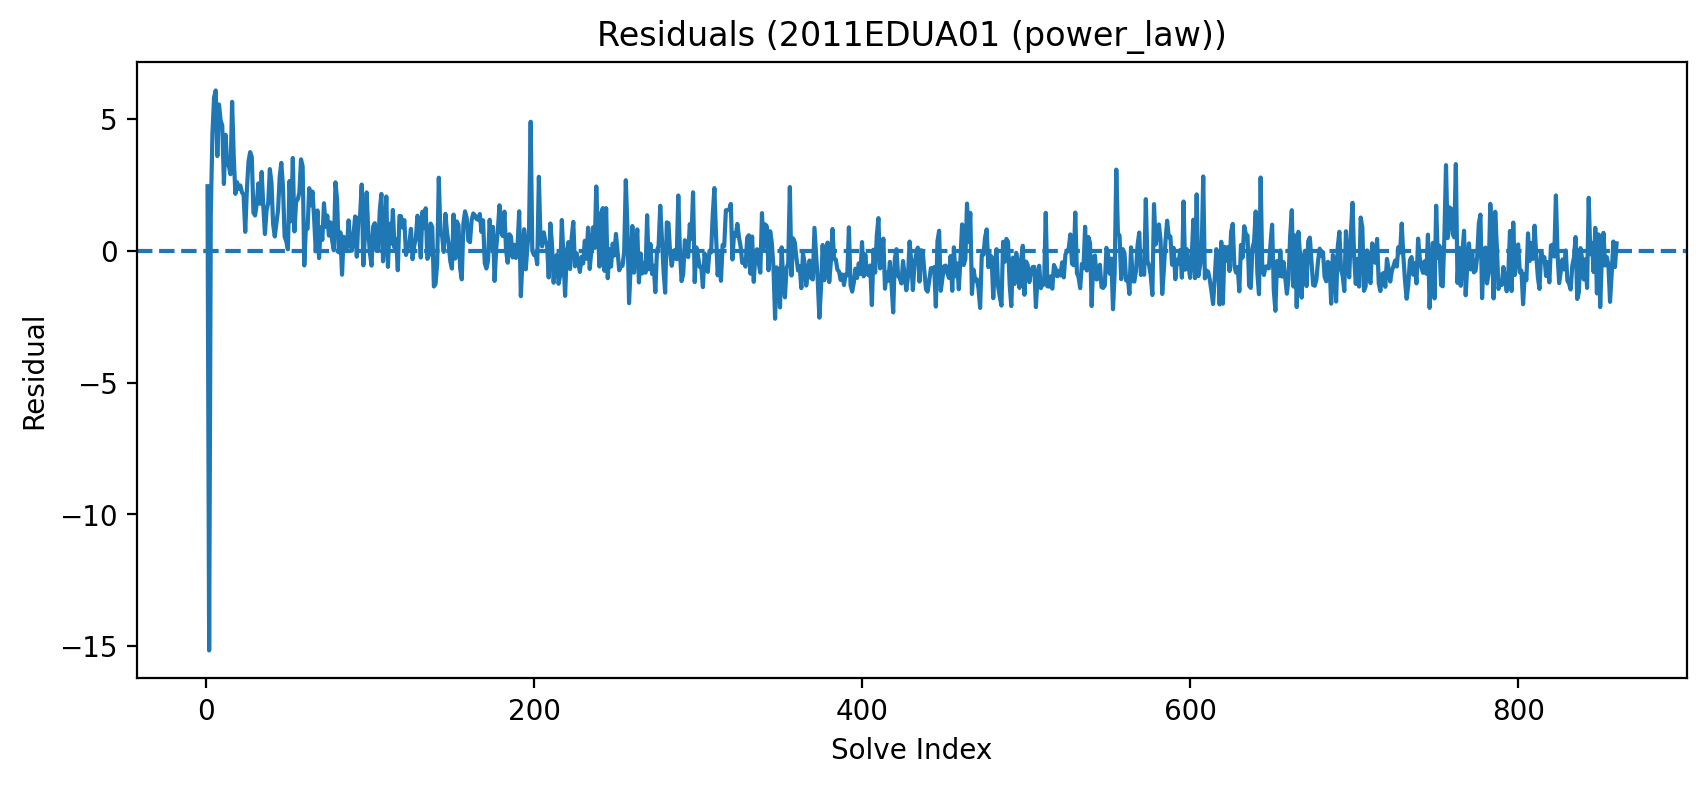
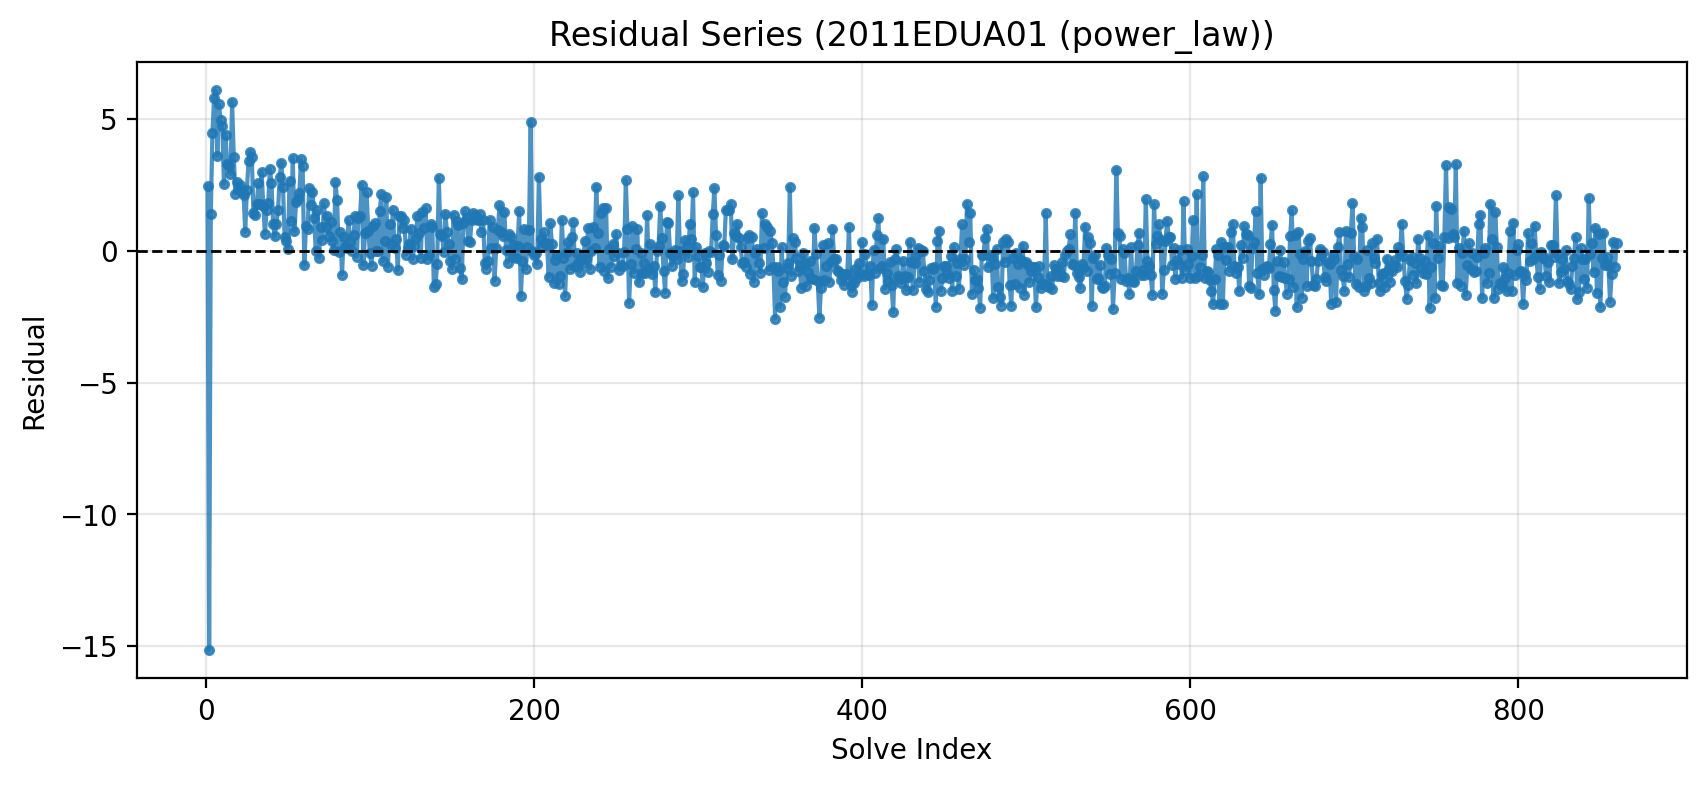
functionalities for Hurst exponent / DFA

Changed region(s): [[0.0931, 0.1223, 0.9936, 0.5503], [0.3105, 0.0306, 0.7452, 0.0611]]

diff --git a/src/dfa_analysis.py b/src/dfa_analysis.py
@@ -1,0 +1,151 @@
+"""Reusable detrended fluctuation analysis helpers.
+
+These functions support the residual analysis notebook by providing a compact
+Hurst-exponent estimate and a human-readable noise classification.
+"""
+
+from __future__ import annotations
+
+import math
+
+import numpy as np
+
+
+def compute_residuals(y_true, y_pred):
+	"""Return residuals as ``y_true - y_pred``.
+
+	This mirrors the residual convention used in :mod:`learning_models`.
+	"""
+
+	return np.asarray(y_true, dtype=float) - np.asarray(y_pred, dtype=float)
+
+
+def _window_fluctuation(profile, scale):
+	"""Compute DFA fluctuation for one window size."""
+
+	window_count = len(profile) // scale
+	if window_count == 0:
+		return np.nan
+
+	fluctuations = []
+	for index in range(window_count):
+		segment = profile[index * scale : (index + 1) * scale]
+		if len(segment) < 2:
+			continue
+		x_values = np.arange(len(segment), dtype=float)
+		coefficients = np.polyfit(x_values, segment, deg=1)
+		trend = np.polyval(coefficients, x_values)
+		residuals = segment - trend
+		fluctuations.append(float(np.mean(residuals**2)))
+
+	if not fluctuations:
+		return np.nan
+
+	return float(math.sqrt(np.mean(fluctuations)))
+
+
+def calculate_hurst_exponent(signal, min_scale=4, n_scales=20):
+	"""Estimate DFA scaling properties and the Hurst exponent.
+	
+	Parameters
+	----------
+	signal : array-like
+		Residual series or any one-dimensional signal.
+	min_scale : int, default 4
+		Smallest DFA window size to consider.
+	n_scales : int, default 20
+		Number of candidate scales sampled on a log scale.
+	"""
+
+	signal = np.asarray(signal, dtype=float).ravel()
+	signal = signal[np.isfinite(signal)]
+	if signal.size < min_scale * 2:
+		raise ValueError("signal must contain enough finite values for DFA")
+
+	# Step 1: mean center the signal.
+	signal = signal - np.mean(signal)
+
+	# Step 2: build the cumulative profile.
+	profile = np.cumsum(signal)
+
+	max_scale = signal.size // 4
+	if max_scale < min_scale:
+		raise ValueError("signal is too short to estimate a Hurst exponent")
+
+	# Step 3: choose window sizes on a logarithmic grid.
+	scales = np.unique(
+		np.logspace(np.log10(min_scale), np.log10(max_scale), n_scales).astype(int)
+	)
+	scales = scales[scales >= min_scale]
+
+	fluctuations = []
+	valid_scales = []
+	for scale in scales:
+		fluctuation = _window_fluctuation(profile, int(scale))
+		if np.isfinite(fluctuation) and fluctuation > 0:
+			valid_scales.append(int(scale))
+			fluctuations.append(float(fluctuation))
+
+	if len(valid_scales) < 2:
+		raise ValueError("not enough valid DFA scales to estimate a Hurst exponent")
+
+	valid_scales = np.asarray(valid_scales, dtype=float)
+	fluctuations = np.asarray(fluctuations, dtype=float)
+
+	# Step 5: fit the line in log-log space; the slope is the Hurst exponent.
+	log_scales = np.log(valid_scales)
+	log_fluctuations = np.log(fluctuations)
+	slope, intercept = np.polyfit(log_scales, log_fluctuations, deg=1)
+	predicted = intercept + slope * log_scales
+	ss_res = np.sum((log_fluctuations - predicted) ** 2)
+	ss_tot = np.sum((log_fluctuations - np.mean(log_fluctuations)) ** 2)
+	if ss_tot == 0:
+		dfa_r2 = float("nan")
+	else:
+		dfa_r2 = float(1 - ss_res / ss_tot)
+
+	return {
+		"hurst": float(slope),
+		"intercept": float(intercept),
+		"dfa_r2": dfa_r2,
+		"scales": valid_scales,
+		"fluctuations": fluctuations,
+	}
+
+
+def classify_noise(h):
+	"""Classify a Hurst exponent into a simple noise regime."""
+
+	if h is None or not np.isfinite(h):
+		return "unknown"
+	if h < 0.45:
+		return "anti-persistent"
+	if h <= 0.55:
+		return "uncorrelated"
+	return "persistent"
+
+
+def dfa_summary(signal):
+	"""Return a compact DFA summary for report writing."""
+
+	try:
+		result = calculate_hurst_exponent(signal)
+	except ValueError:
+		return {
+			"hurst": float("nan"),
+			"dfa_r2": float("nan"),
+			"noise_type": "unknown",
+		}
+	return {
+		"hurst": result["hurst"],
+		"dfa_r2": result["dfa_r2"],
+		"noise_type": classify_noise(result["hurst"]),
+	}
+
+
+__all__ = [
+	"compute_residuals",
+	"calculate_hurst_exponent",
+	"classify_noise",
+	"dfa_summary",
+]

diff --git a/src/visualization.py b/src/visualization.py
@@ -1,7 +1,5 @@
-# plot_learning_curve()
-# plot_model_fit()
-# plot_residuals()
 import matplotlib.pyplot as plt
+import numpy as np
 
 
 def plot_learning_curve(x, y, player_id=None):
@@ -26,6 +24,8 @@ def plot_learning_curve(x, y, player_id=None):
         if player_id
         else "Learning Trajectory"
     )
+
+    ax.grid(True, alpha=0.3)
 
     return fig, ax
 
@@ -77,33 +77,60 @@ def plot_model_fits(
 
     ax.legend()
 
+    ax.grid(True, alpha=0.3)
+
     return fig, ax
 
-def plot_residuals(
-    x,
-    residuals,
-    player_id=None
-):
-    """
-    Plot residual series.
-    """
+def plot_dfa_scaling(scales, fluctuations, slope=None, intercept=None, player_id=None):
+    """Plot DFA scaling on log-log axes with an optional fitted line."""
+
+    scales = np.asarray(scales, dtype=float)
+    fluctuations = np.asarray(fluctuations, dtype=float)
+
+    fig, ax = plt.subplots(figsize=(10, 5))
+    ax.scatter(scales, fluctuations, s=24, alpha=0.75, label="Observed fluctuations")
+
+    if slope is not None and intercept is not None:
+        fitted = np.exp(intercept + slope * np.log(scales))
+        ax.plot(scales, fitted, linewidth=2, label="Fitted line")
+
+    ax.set_xscale("log")
+    ax.set_yscale("log")
+    ax.set_xlabel("Scale n")
+    ax.set_ylabel("Fluctuation F(n)")
+    ax.grid(True, which="both", alpha=0.3)
+
+    title = "DFA Scaling"
+    if player_id:
+        title += f" ({player_id})"
+    ax.set_title(title)
+    ax.legend()
+
+    return fig, ax
+
+
+def plot_residual_series(x, residuals, player_id=None):
+    """Plot residuals against solve index."""
 
     fig, ax = plt.subplots(figsize=(10, 4))
-
-    ax.plot(x, residuals)
-
-    ax.axhline(
-        0,
-        linestyle="--"
-    )
+    ax.plot(x, residuals, marker=".", linestyle="-", alpha=0.8)
+    ax.axhline(0, linestyle="--", color="black", linewidth=1)
+    ax.grid(True, alpha=0.3)
 
     ax.set_xlabel("Solve Index")
     ax.set_ylabel("Residual")
 
-    title = "Residuals"
+    title = "Residual Series"
     if player_id:
         title += f" ({player_id})"
-
     ax.set_title(title)
 
     return fig, ax
+
+
+__all__ = [
+    "plot_learning_curve",
+    "plot_model_fits",
+    "plot_dfa_scaling",
+    "plot_residual_series",
+]
